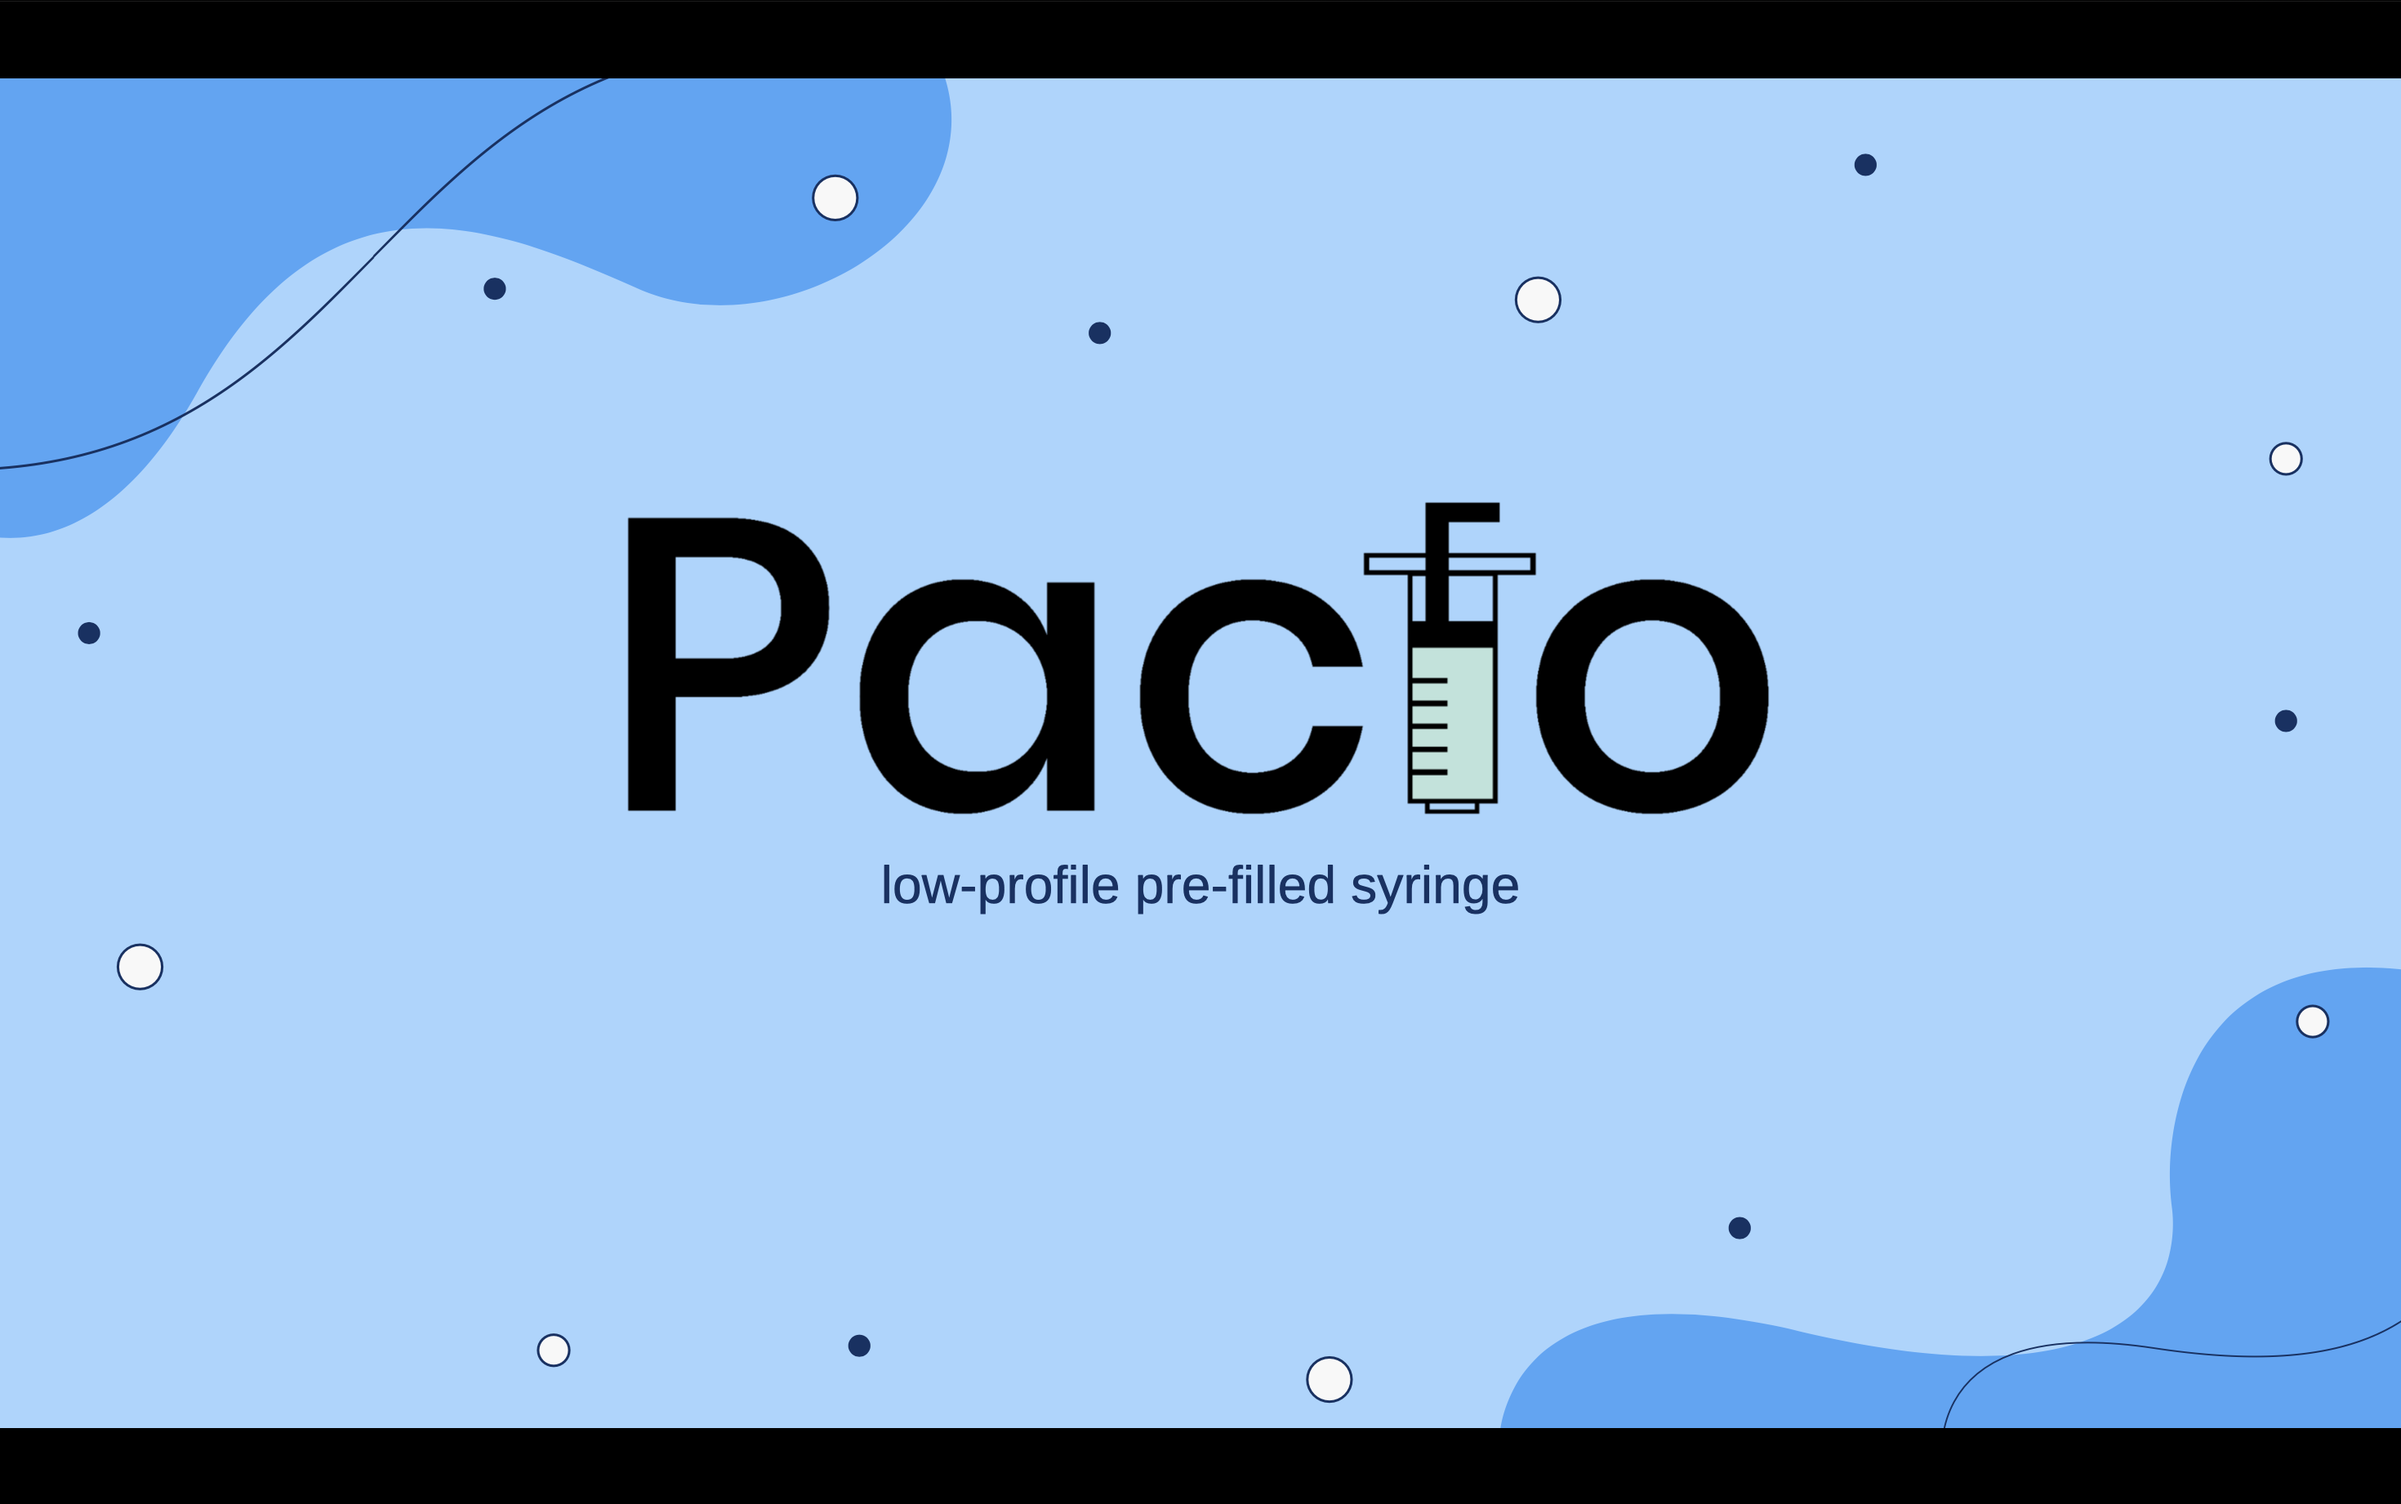
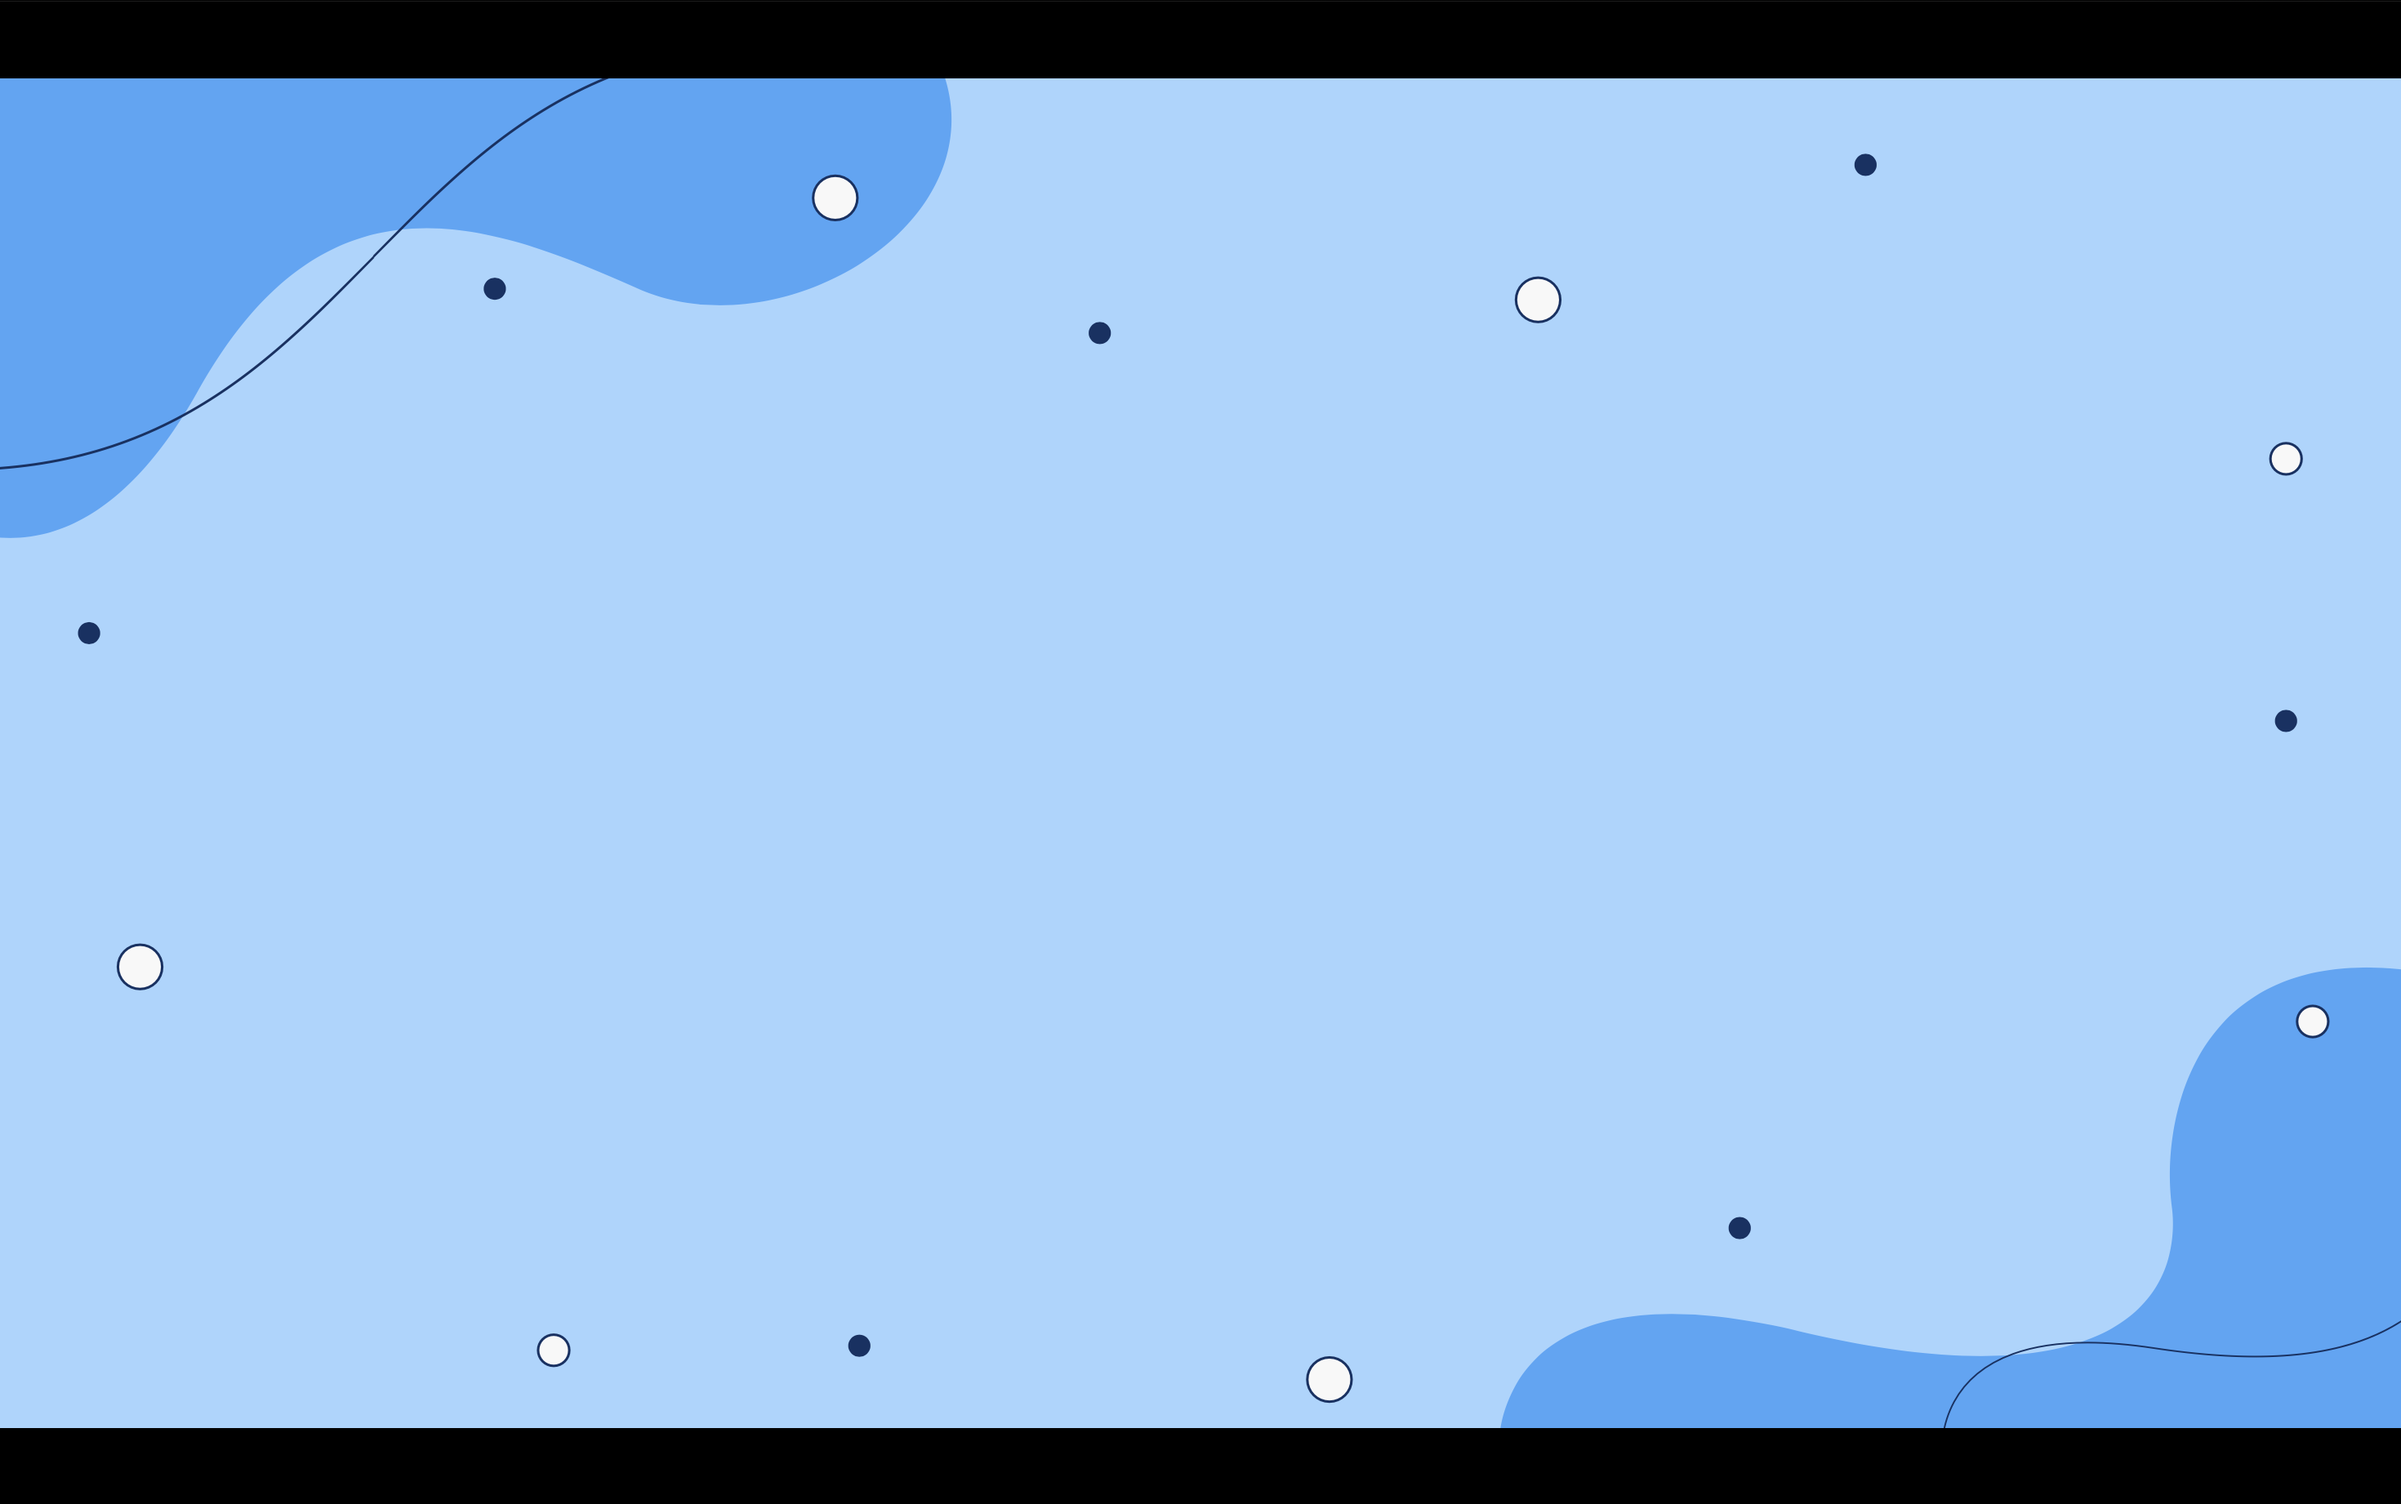
Image resizing

Changed region(s): [[0.2476, 0.3094, 0.7429, 0.6189]]

diff --git a/index.html b/index.html
@@ -22,7 +22,7 @@
 	<body data-preloader="1">
 
 		<div class="section-fullscreen bg-image" data-bg-src="assets/images/pactolanding.png">
-			<div class="bg-dark-05">
+			<div class="bg-dark-01">
 				<div class="container text-center">
 					<div class="position-top">
 						<div class="row align-items-center g-0">
@@ -39,7 +39,7 @@
 					<div class="position-middle">
 						<div class="row">
 							<div class="col-12 col-sm-10 offset-sm-1 col-md-8 offset-md-2 col-lg-6 offset-lg-3">
-								<br><br><br><br><br><br><br><br><br><br><br><br><br><br><br>
+								<img src="assets/images/pactologotemp.png" alt="Logo">
 								<h1 class="display-4 fw-lighter mb-4">Coming Soon</h1>
 								<p>For all business inquiries, contact our <b> <a href = "mailto: pacto.medical.business@gmail.com"> email.</a> </b></p>
 							</div>

diff --git a/assets/css/theme.css b/assets/css/theme.css
@@ -10440,6 +10440,10 @@ body.loaded:after {
   background: rgba(40, 44, 48, 0.5) !important;
 }
 
+.bg-pacto{
+  background: rgba(140, 185, 252, 1.0) !important;
+}
+
 .bg-dark-04 {
   background: rgba(40, 44, 48, 0.4) !important;
 }
@@ -10453,7 +10457,7 @@ body.loaded:after {
 }
 
 .bg-dark-01 {
-  background: rgba(40, 44, 48, 0.1) !important;
+  background: rgba(40, 44, 48, 0.0) !important;
 }
 
 .bg-gray {
